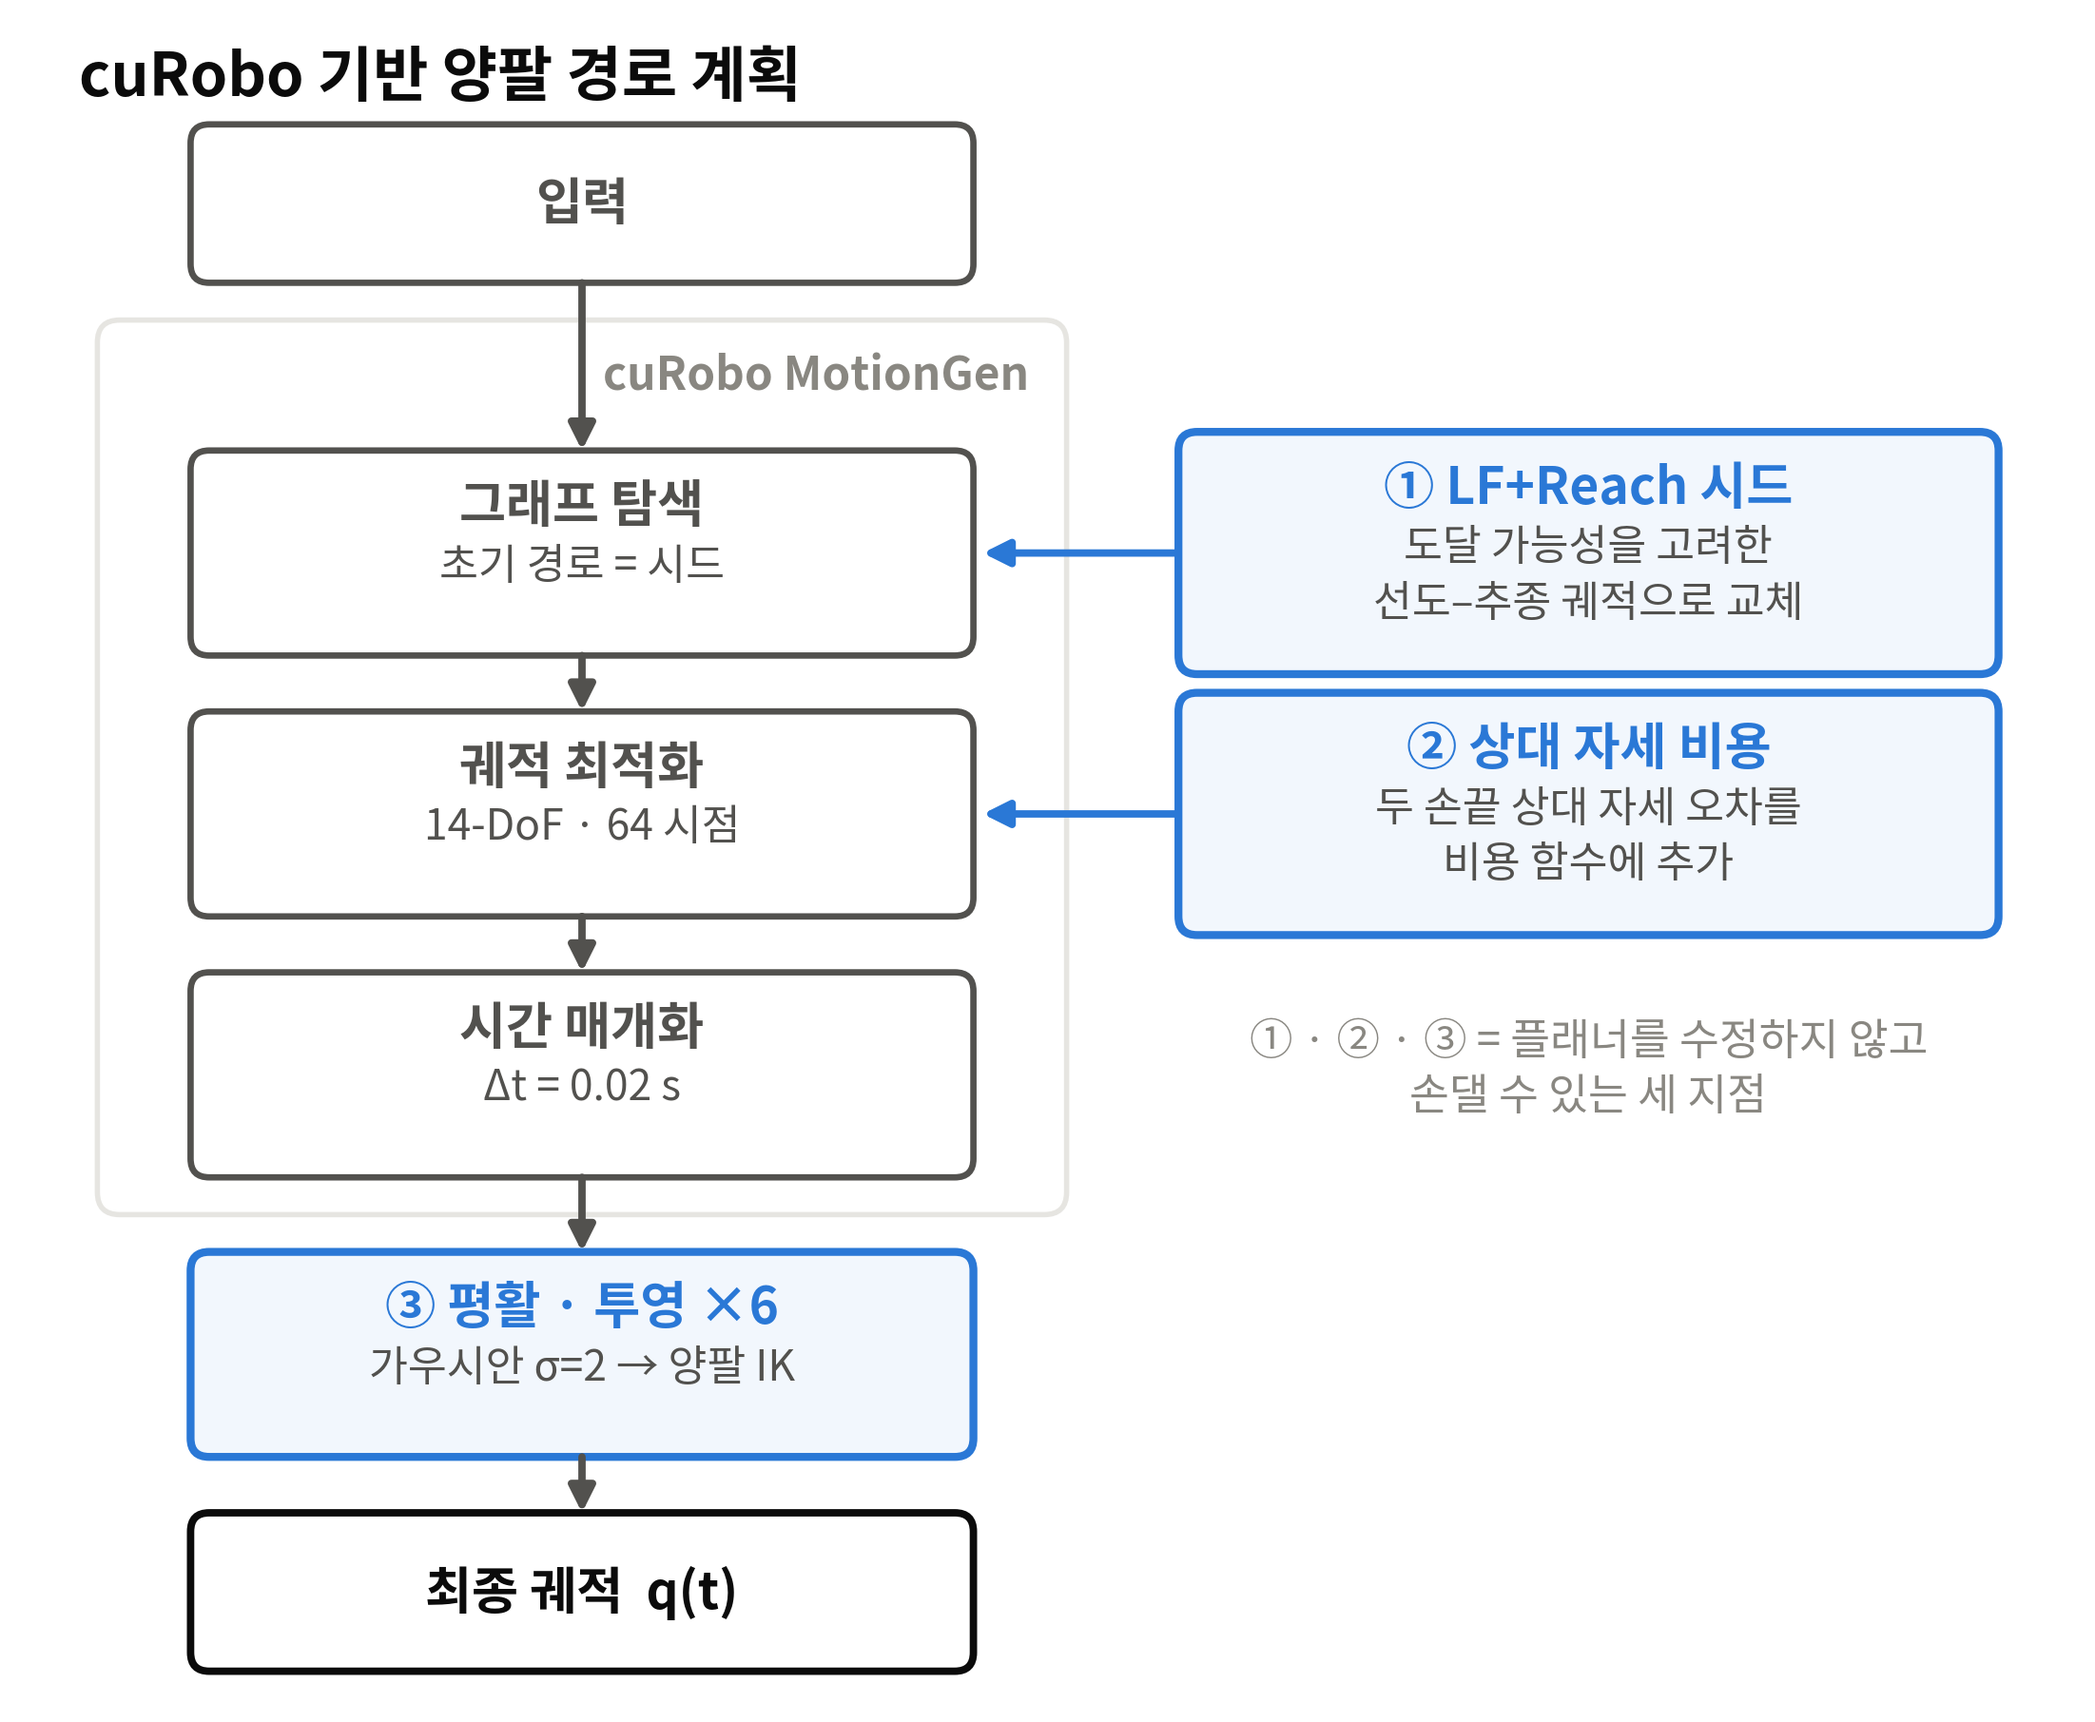
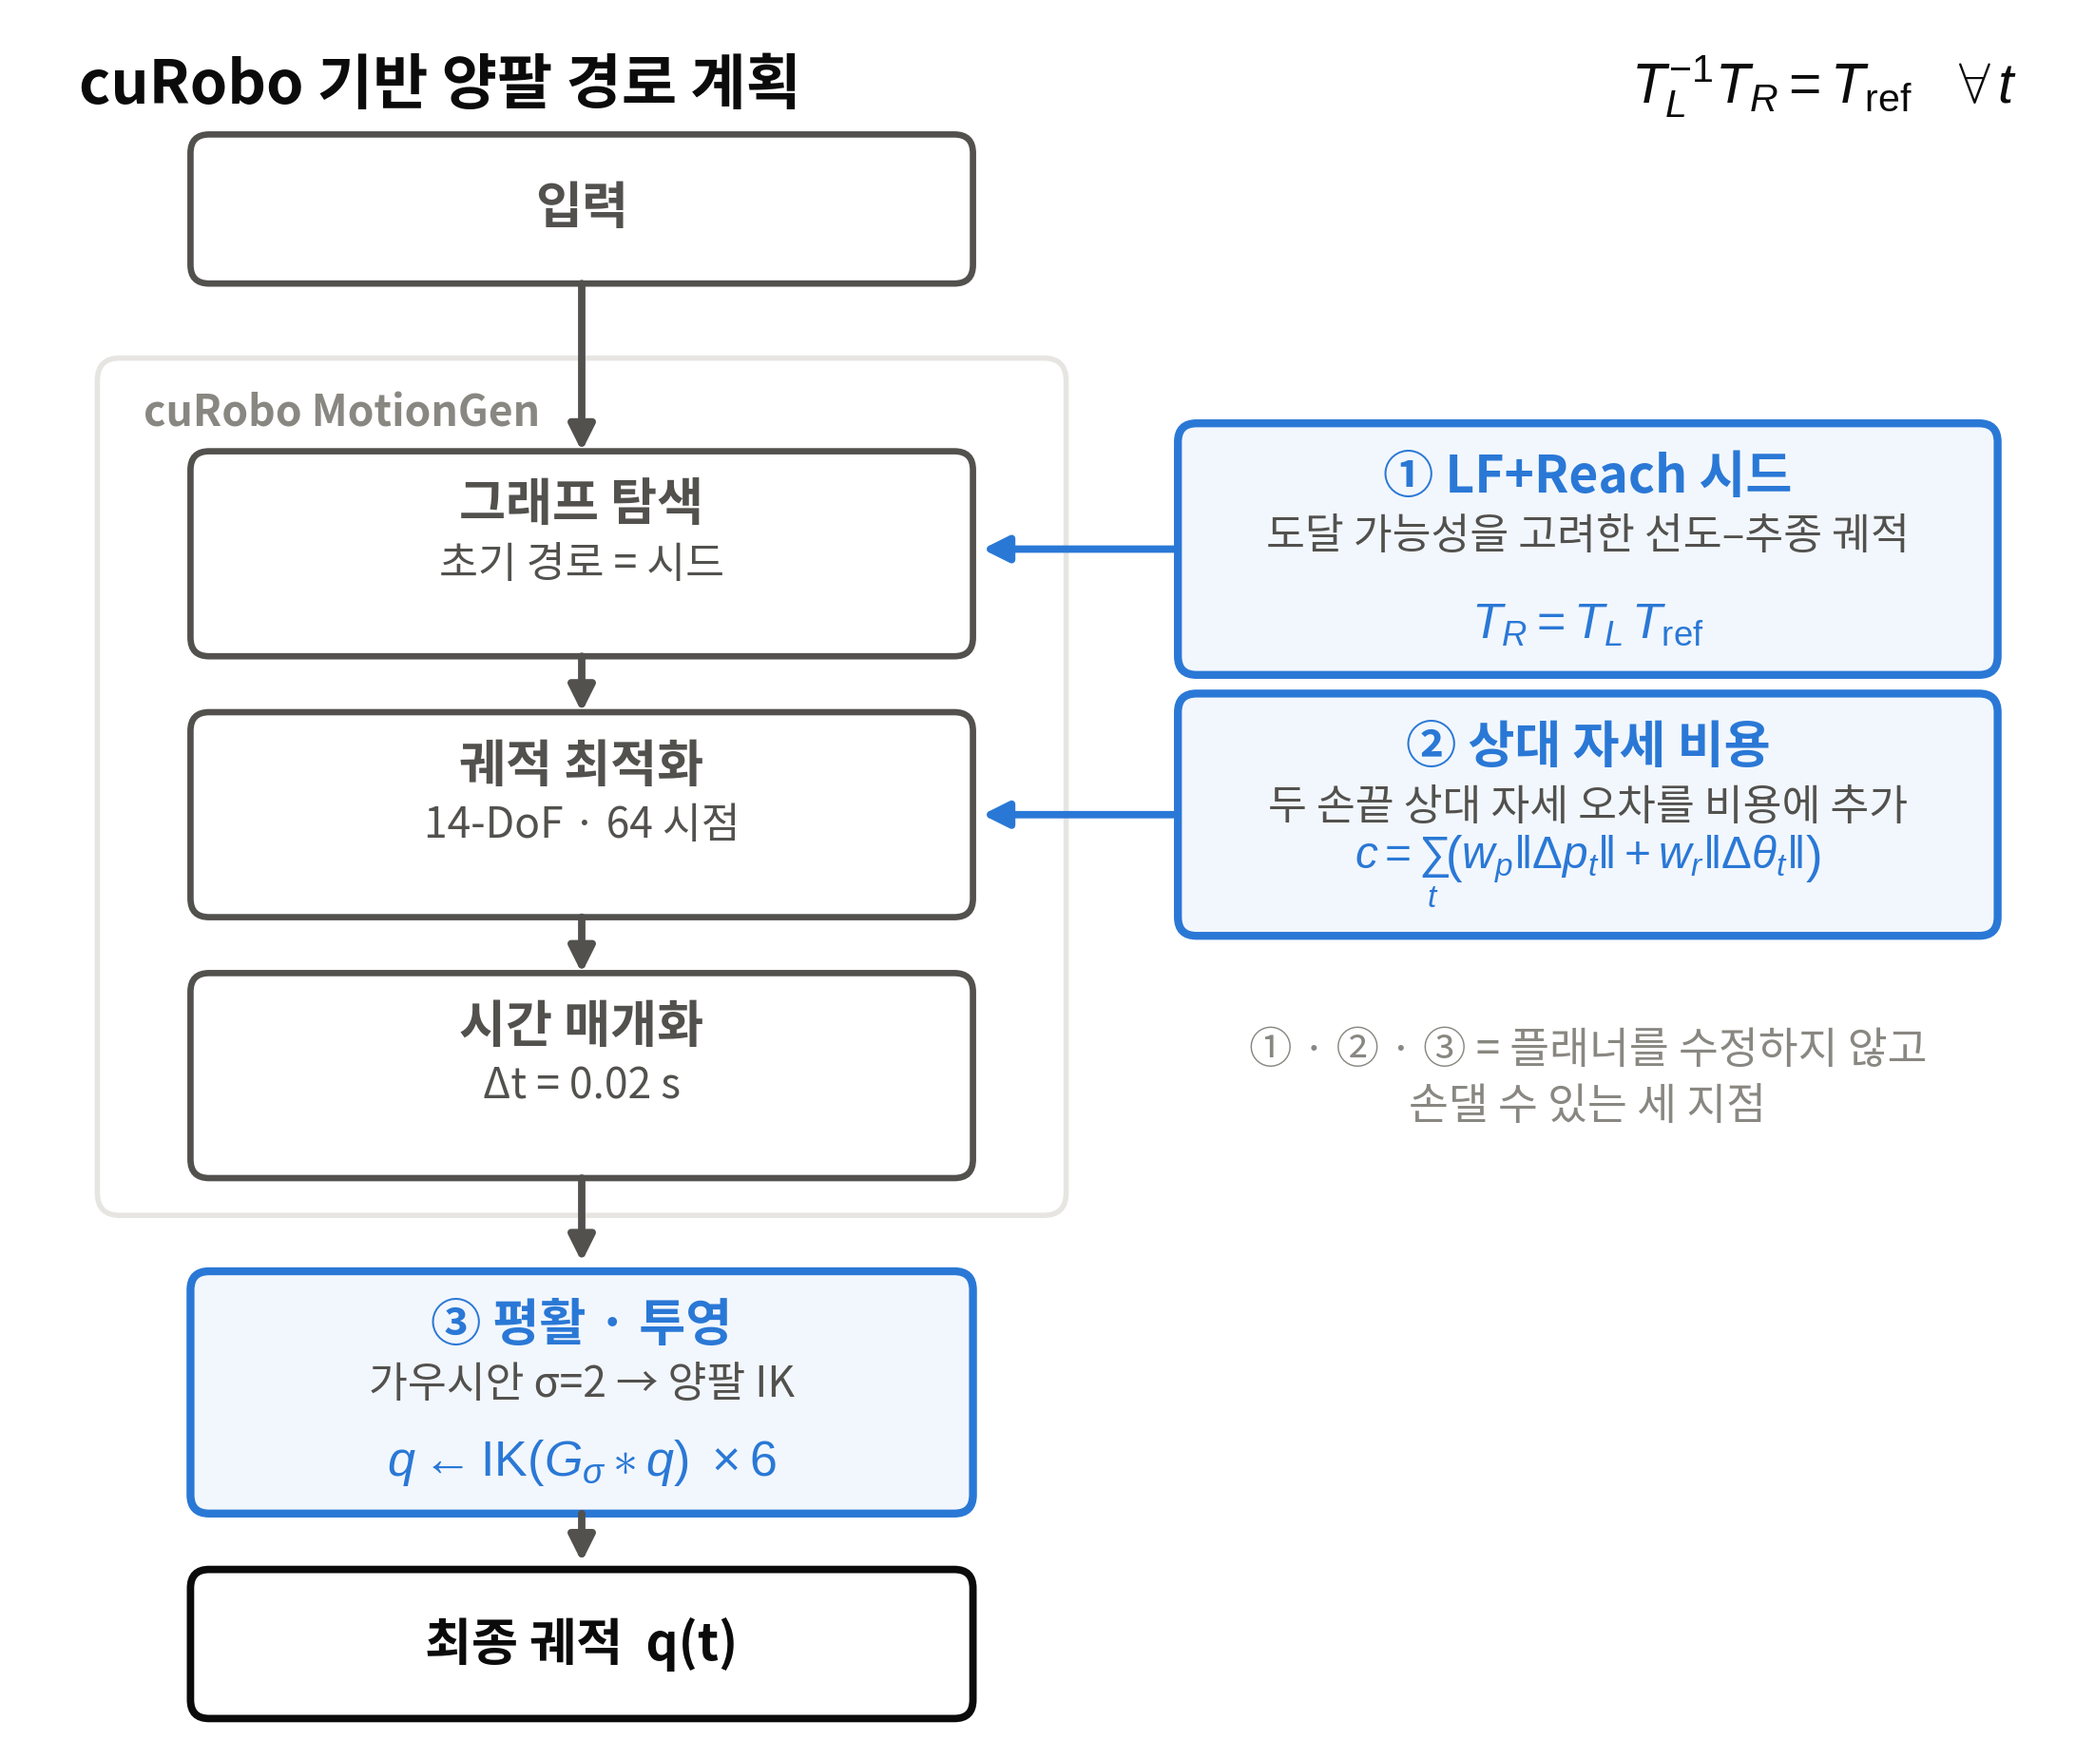
파이프라인 그림에 제약식과 세 단계 수식 추가
그림이 무엇을 하는지는 보여주었지만 어떻게 하는지는 글에만 있었다. 세 파란 상자에
구현에서 그대로 옮긴 식을 넣고, 제목 오른쪽에 지켜야 할 제약을 적었다.

  제약   T_L^-1 T_R = T_ref  ∀t
  ① 시드  T_R = T_L T_ref                        (src/leader_reach_cost.py)
  ② 비용  c = Σ_t (w_p‖Δp_t‖ + w_r‖Δθ_t‖)        (src/rigid_cost.py)
  ③ 후처리 q <- IK(G_σ ∗ q) ×6                    (scripts/exp8b_smooth_project.py)

수식 이미지를 겹치는 대신 같은 스크립트에서 mathtext 로 그린다 - 크기가 깨지지
않고 글자 크기가 그림의 나머지와 맞는다. 수학 글꼴은 Liberation Sans 로 두어
한글 라벨과 같은 계열로 보이게 했다.

캡션 첫 구절로 제약식을 가리켜, 식이 설명 없이 떠 있지 않게 했다.

diff --git a/index.html b/index.html
@@ -119,7 +119,7 @@
         <img src="img/pipeline.png" alt="제안 파이프라인: cuRobo 계획 단계와 세 확장 지점">
       </a>
       <p class="zoom">그림을 누르면 크게 볼 수 있다</p>
-      <figcaption>계획 과정은 그대로 두고 <b>세 지점</b>에만 개입한다. ① 도달 가능성을 고려한 선도–추종 궤적으로 초기 경로를 바꾸고, ② 두 손끝 상대 자세 오차를 비용 함수에 더하고, ③ 결과 궤적에 평활화와 양팔 역기구학 투영을 여섯 번 번갈아 적용한다. ②·③이 실패하면 ①을 반환한다.</figcaption>
+      <figcaption>오른쪽 위 식이 지켜야 할 제약이다 — 두 손끝의 상대 자세가 모든 시점에서 같아야 한다. 계획 과정은 그대로 두고 <b>세 지점</b>에만 개입한다. ① 도달 가능성을 고려한 선도–추종 궤적으로 초기 경로를 바꾸고, ② 두 손끝 상대 자세 오차를 비용 함수에 더하고, ③ 결과 궤적에 평활화와 양팔 역기구학 투영을 여섯 번 번갈아 적용한다. ②·③이 실패하면 ①을 반환한다.</figcaption>
     </figure>
   </div>
 </section>
